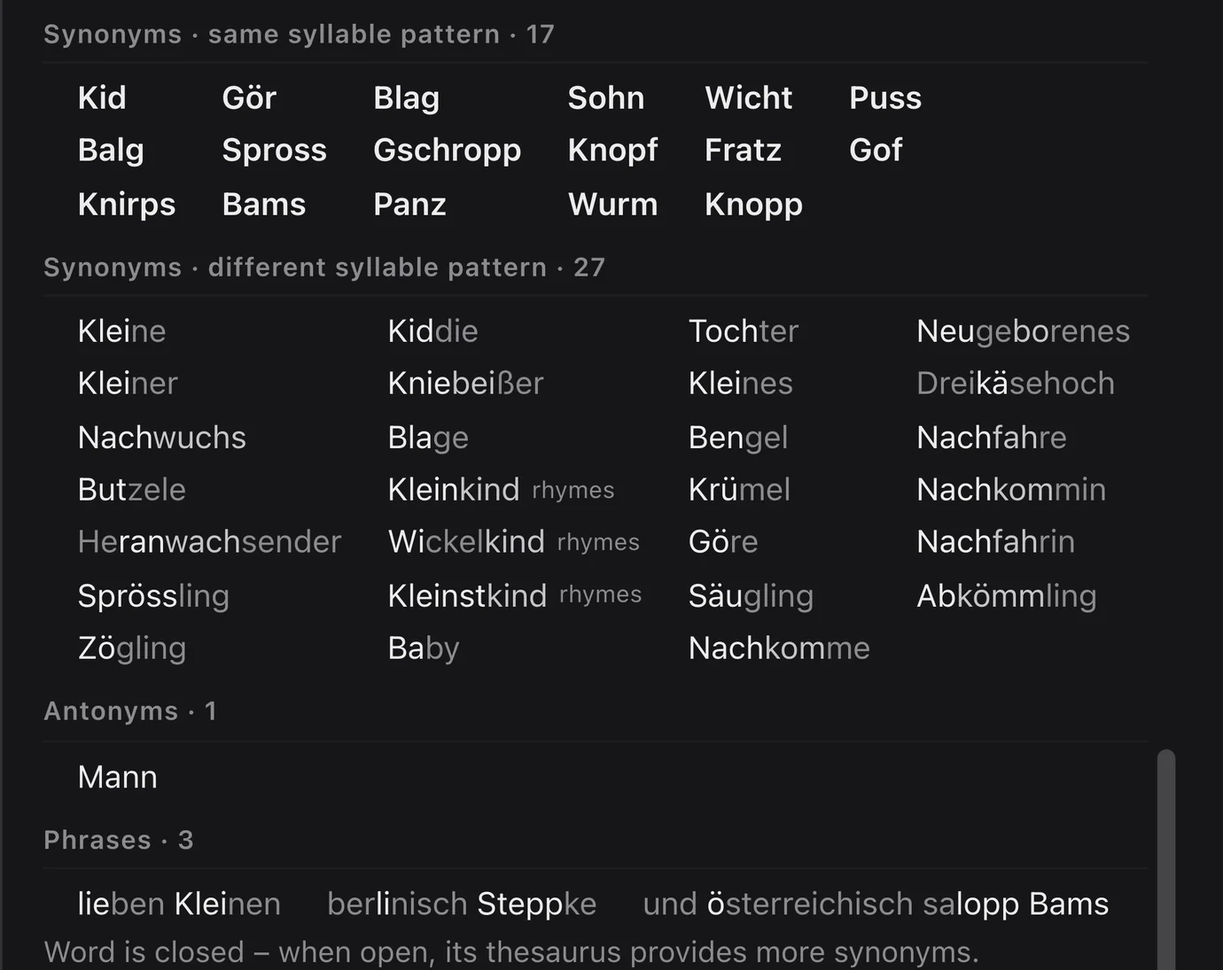
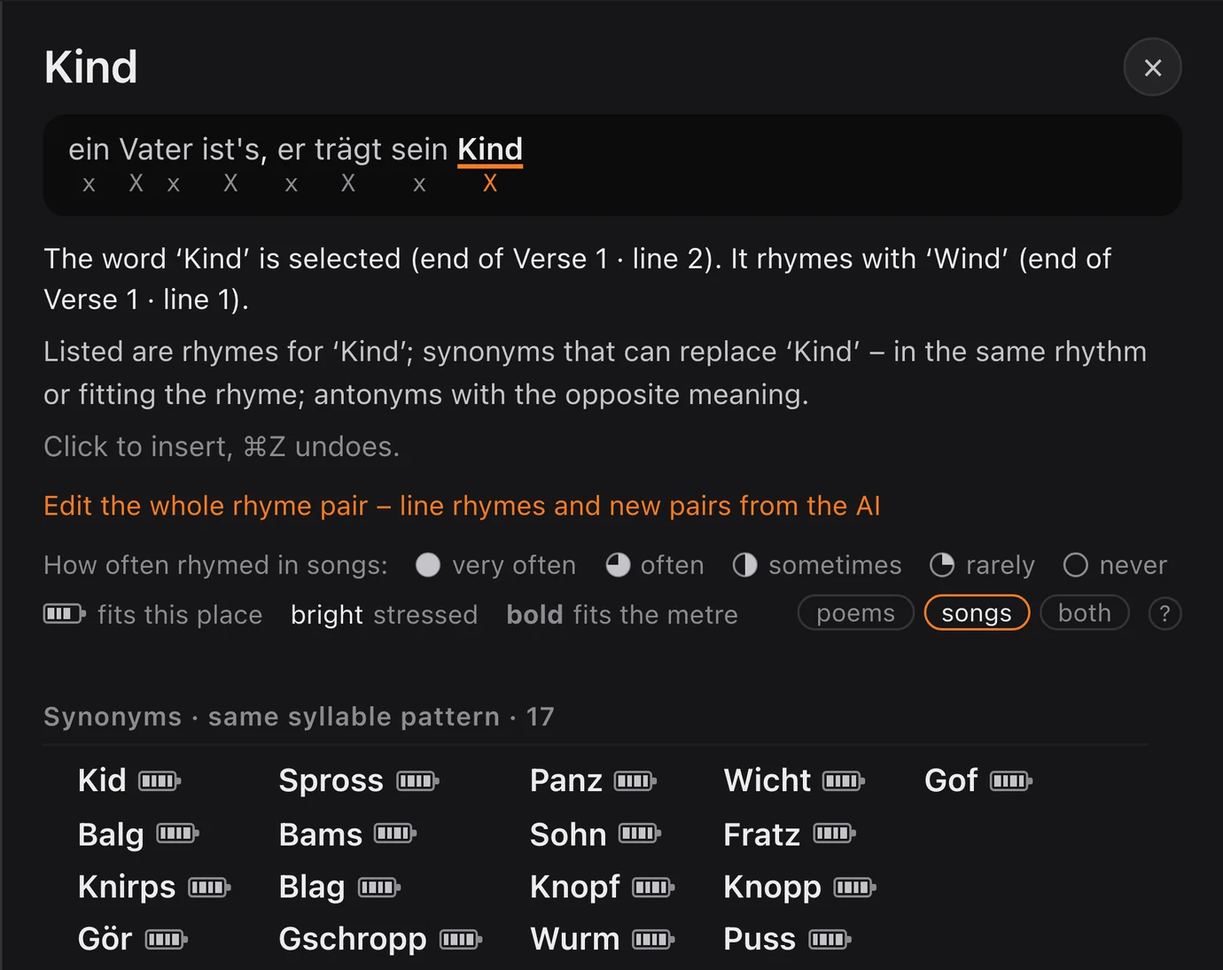
Feature-Seite: Versmaß, Reimstufen, Reim-BLAST mit Lautmatrix, Batterie, Aufbau, alte Wörterbücher
Neue Kacheln mit Beispielen und Schaubildern statt Screenshots im Aufbau; Säulen für Muret-Sanders 1900 und
Viëtor 1921; Viëtor nur noch an einer Stelle. Neue Kachelarten in der Seiten-Engine: Balken, Matrix, Soll-Bild, Text.

diff --git a/docs/inhalt.js b/docs/inhalt.js
@@ -24,44 +24,86 @@ const S = {
    h:{en:'Bright means stressed.',de:'Hell ist betont.'},
    p:{en:'Stressed syllables light up, unstressed ones step back. On the right, the beats of each line as bars, their number and the rhyme.',
       de:'Betonte Silben leuchten, unbetonte treten zurück. Rechts die Hebungen jeder Zeile als Balken, ihre Zahl und der Reim.'},
-   d:{en:['<b>German and English</b>, also mixed in one text; KlangFeder detects the language line by line.','<b>Pronunciation dictionaries</b> with over 800,000 word forms, plus Viëtor’s pronunciation dictionary of 1921, digitised by us and released freely.','<b>Syllables on the left</b>, beats and cadence (masculine or feminine ending) on the right; the section shows its metre, such as Knittelvers.'],
-      de:['<b>Deutsch und Englisch</b>, auch gemischt in einem Text; die Sprache erkennt die KlangFeder Zeile für Zeile.','<b>Aussprachewörterbücher</b> mit über 800 000 Wortformen, dazu Viëtors Aussprachewörterbuch von 1921, von uns digitalisiert und frei veröffentlicht.','<b>Silbenzahl links</b>, Hebungen und Kadenz (männlich oder weiblich) rechts; der Abschnitt zeigt sein Versmaß, etwa Knittelvers.']}},
+   d:{en:['<b>German and English</b>, also mixed in one text; KlangFeder detects the language line by line.','<b>Pronunciation dictionaries</b> with over 800,000 word forms.','<b>Syllables on the left</b>, beats and cadence (masculine or feminine ending) on the right.'],
+      de:['<b>Deutsch und Englisch</b>, auch gemischt in einem Text; die Sprache erkennt die KlangFeder Zeile für Zeile.','<b>Aussprachewörterbücher</b> mit über 800 000 Wortformen.','<b>Silbenzahl links</b>, Hebungen und Kadenz (männlich oder weiblich) rechts.']}},
+  {id:'versmass',w:12,klein:{en:'Metre',de:'Versmaß'},
+   h:{en:'Iamb, blank verse, sonnet – recognised.',de:'Jambus, Knittelvers, Sonett – erkannt.'},
+   p:{en:'From the beats of each line KlangFeder reads the foot, the line form and the stanza form, following classical prosody.',
+      de:'Aus den Hebungen jeder Zeile liest die KlangFeder Versfuß, Versform und Strophenform – nach der klassischen Verslehre.'},
+   d:{en:['<b>Poems strictly, songs freely:</b> in a song, a double offbeat or an upbeat is not a fault.','<b>The forms catalogue</b> in the help shows every form as a picture of beats and offbeats.'],
+      de:['<b>Gedichte streng, Lieder frei:</b> Im Lied gelten Doppelsenkung und Auftakt nicht als Fehler.','<b>Der Formenkatalog</b> in der Hilfe zeigt jede Form als Bild aus Hebungen und Senkungen.']}},
   ]},
  {augenbraue:{en:'Rhyme',de:'Reimen'},
   h:{en:'Same colour rhymes.',de:'Gleiche Farbe reimt.'},
-  p:{en:'KlangFeder hears rhymes, it does not read them: by sound, not by spelling – pure, impure, assonance. And it finds new ones.',
-     de:'Die KlangFeder hört Reime, sie liest sie nicht: nach dem Klang, nicht nach der Schreibung – rein, unrein, Assonanz. Und sie findet neue.'},
+  p:{en:'KlangFeder hears rhymes, it does not read them: by sound, not by spelling, in seven levels. And it finds new ones.',
+     de:'Die KlangFeder hört Reime, sie liest sie nicht: nach dem Klang, nicht nach der Schreibung, in sieben Stufen. Und sie findet neue.'},
   kacheln:[
   {id:'reimschema',w:6,klein:{en:'Rhyme scheme',de:'Reimschema'},
    h:{en:'Every section knows its scheme.',de:'Jeder Abschnitt kennt sein Schema.'},
    p:{en:'Letters show which lines rhyme. Next to each heading the scheme: found in the text, or set by you.',
       de:'Buchstaben zeigen, welche Zeilen reimen. Neben jeder Überschrift das Schema: im Text gefunden oder von dir vorgegeben.'},
-   d:{en:['<b>Fours, sixes and eights</b> to choose from: alternate rhyme ABAB, couplets AABB, tail rhyme AABCCB, ottava rima ABABABCC; any scheme can also be typed.','<b>“auto”</b> takes the scheme that best fits sections of this kind.','<b>Impure rhymes</b> by the rules of prosody count too (mir/Tür, Liebe/trübe).'],
-      de:['<b>Vierer, Sechser, Achter</b> zur Wahl: Kreuzreim ABAB, Paarreim AABB, Schweifreim AABCCB, Stanze ABABABCC; jedes Schema lässt sich auch selbst tippen.','<b>„auto“</b> nimmt das Schema, das zu den Abschnitten dieser Art am besten passt.','<b>Unreine Reime</b> nach der Verslehre zählen mit (mir/Tür, Liebe/trübe).']}},
+   d:{en:['<b>Fours, sixes and eights</b> to choose from: alternate rhyme ABAB, couplets AABB, tail rhyme AABCCB, ottava rima ABABABCC; any scheme can also be typed.','<b>“auto”</b> takes the scheme that best fits sections of this kind.'],
+      de:['<b>Vierer, Sechser, Achter</b> zur Wahl: Kreuzreim ABAB, Paarreim AABB, Schweifreim AABCCB, Stanze ABABABCC; jedes Schema lässt sich auch selbst tippen.','<b>„auto“</b> nimmt das Schema, das zu den Abschnitten dieser Art am besten passt.']}},
   {id:'reimsuche',w:6,klein:{en:'Rhyme search',de:'Reimsuche'},
    h:{en:'Right-click, and the rhymes are there.',de:'Rechtsklick, und die Reime stehen da.'},
-   p:{en:'Rhymes on a word, pure, impure and as assonance, with how often they rhyme in poems and songs. Bold fits the metre.',
-      de:'Reime auf ein Wort, rein, unrein und als Assonanz, mit ihrer Häufigkeit in Gedichten und Liedern. Fett passt ins Maß.'},
+   p:{en:'Rhymes on a word, level by level, with how often they rhyme in poems and songs. Bold fits the metre.',
+      de:'Reime auf ein Wort, Stufe für Stufe, mit ihrer Häufigkeit in Gedichten und Liedern. Fett passt ins Maß.'},
    d:{en:['<b>In the same workbench:</b> replacements with the same stress pattern, opposites and phrases.','<b>How often</b> from about 61,000 German poems and – if you fetch it – from German song lyrics.','<b>One click</b> puts the word in; ⌘Z takes it back.'],
       de:['<b>In derselben Werkbank:</b> Ersatzwörter im gleichen Rhythmus, Gegenteile und Wendungen.','<b>Wie oft</b> aus rund 61 000 deutschen Gedichten und – wenn du es holst – aus deutschen Liedtexten.','<b>Ein Klick</b> setzt das Wort ein; ⌘Z nimmt es zurück.']}},
+  {id:'reimstufen',w:12,klein:{en:'Rhyme levels',de:'Reimstufen'},
+   h:{en:'Seven levels, each in its colour.',de:'Sieben Stufen, jede in ihrer Farbe.'},
+   p:{en:'How well two words rhyme, KlangFeder hears from their pronunciation. The colour stands as a stripe next to every list of rhymes. Examples in German:',
+      de:'Wie gut zwei Wörter reimen, hört die KlangFeder an ihrer Aussprache. Die Farbe steht als Streifen an jeder Reimliste.'},
+   d:{en:['<b>Impure rhymes</b> by the rules of prosody (mir/Tür, Zeit/freut) count in the rhyme scheme.','<b>The list of rhymes</b> runs from identical to echo; the scroll wheel decides how far.'],
+      de:['<b>Unreine Reime</b> nach der Verslehre (mir/Tür, Zeit/freut) zählen im Reimschema mit.','<b>Die Reimliste</b> läuft von rührend bis Anklang; das Mausrad entscheidet, wie weit.']}},
+  {id:'blast',w:7,klein:{en:'How it finds rhymes',de:'Wie sie Reime findet'},
+   h:{en:'Rhymes aligned like genes.',de:'Reime aligniert wie Gene.'},
+   p:{en:'Every word becomes a chain of sounds and is aligned from its end – with the method biology uses to compare protein and DNA sequences. How alike two sounds are, KlangFeder learned from rhymes, among them those of about 61,000 poems.',
+      de:'Jedes Wort wird zur Kette von Lauten und vom Ende her ausgerichtet – mit dem Verfahren, mit dem die Biologie Eiweiß- und Erbgutsequenzen vergleicht. Wie ähnlich sich zwei Laute sind, hat die KlangFeder aus Reimen gelernt, unter anderem aus denen von rund 61 000 Gedichten.'},
+   d:{en:['<b>Anchored at the end, open to the left</b> (as in BLAST): the alignment grows as long as the score carries it.','<b>A table of sound pairs</b> (a substitution matrix, as BLOSUM is for proteins): how often two sounds stand together at the rhyme, more often than chance gives points.','<b>Syllables have weight:</b> a missing unstressed syllable costs little, a stressed one a lot – Tag / sagen rhymes, Heim / Heimat does not.'],
+      de:['<b>Am Ende verankert, nach links offen</b> (wie bei BLAST): Die Ausrichtung wächst, solange die Punkte tragen.','<b>Eine Tafel der Lautpaare</b> (Austauschmatrix, wie BLOSUM bei Eiweißen): Wie oft zwei Laute an Reimstelle zusammenstehen – häufiger als der Zufall gibt Punkte.','<b>Silben haben Gewicht:</b> Eine fehlende unbetonte Silbe kostet wenig, eine betonte viel – Tag / sagen reimt, Heim / Heimat nicht.']}},
+  {id:'lautmatrix',w:5,klein:{en:'Sound matrix',de:'Lautmatrix'},
+   h:{en:'Which vowels rhyme.',de:'Welche Vokale sich reimen.'},
+   p:{en:'Learned from the rhymes of about 61,000 poems: how much more often two vowels stand together at the rhyme than chance would have it. Warm: more often, blue: less often, empty: never seen together.',
+      de:'Aus den Reimen von rund 61 000 Gedichten gelernt: wie viel öfter zwei Vokale an Reimstelle zusammenstehen, als der Zufall erwarten lässt. Warm: öfter, blau: seltener, leer: nie zusammen gesehen.'},
+   d:{en:['<b>For example:</b> i and ɪ (Miete / Mitte) almost never rhyme, i and y (Liebe / trübe) often.','<b>The measure</b> is pointwise mutual information (PMI) per pair of sounds, scaled so that every sound gives 1 with itself.','<b>Consonants</b> have the same kind of table; it decides how much a different final consonant costs.'],
+      de:['<b>Ein Beispiel:</b> i und ɪ (Miete / Mitte) reimen fast nie, i und y (Liebe / trübe) oft.','<b>Gemessen</b> als punktweise Transinformation (PMI) je Lautpaar, so bemessen, dass jeder Laut mit sich selbst 1 ergibt.','<b>Für Konsonanten</b> gibt es dieselbe Art Tafel; sie bestimmt, was ein anderer Endkonsonant kostet.']}},
   ]},
  {augenbraue:{en:'Find',de:'Finden'},
   h:{en:'The right word, in the right metre.',de:'Das passende Wort, im passenden Maß.'},
-  p:{en:'Synonyms, opposites and phrases – sorted by whether they fit the line. And gaps that KlangFeder fills.',
-     de:'Synonyme, Gegenteile und Wendungen – sortiert danach, ob sie in den Vers passen. Und Lücken, die die KlangFeder füllt.'},
+  p:{en:'Synonyms, opposites and phrases – each with a sign of how well it fits your line. And gaps that KlangFeder fills.',
+     de:'Synonyme, Gegenteile und Wendungen – jedes mit einem Zeichen, wie gut es in deinen Vers passt. Und Lücken, die die KlangFeder füllt.'},
   kacheln:[
   {id:'ersatz',w:7,klein:{en:'Replacements',de:'Ersatzwörter'},
    h:{en:'Same meaning, same stress.',de:'Gleich gemeint, gleich betont.'},
-   p:{en:'Synonyms with the same syllable pattern come first; the others show where their stress lies. Plus opposites and phrases.',
-      de:'Synonyme mit demselben Silbenmuster stehen vorn; die übrigen zeigen, wo ihre Betonung liegt. Dazu Gegenteile und Wendungen.'},
-   d:{en:['<b>From OpenThesaurus and Wiktionary</b>; on a Mac also from the Dictionary app and, if it is running, Microsoft Word.','<b>“rhymes”</b> marks synonyms that also rhyme with the partner line.','<b>English</b> from the Open English WordNet.'],
-      de:['<b>Aus OpenThesaurus und dem Wiktionary</b>, auf dem Mac zusätzlich aus dem Programm Lexikon und, wenn es läuft, aus Microsoft Word.','<b>„reimt“</b> markiert Synonyme, die zugleich auf die Partnerzeile reimen.','<b>Englisch</b> aus dem Open English WordNet.']}},
+   p:{en:'Synonyms with the same syllable pattern come first. A small battery shows for every suggestion how well it fits exactly this place in the line.',
+      de:'Synonyme mit demselben Silbenmuster stehen vorn. Eine kleine Batterie zeigt bei jedem Vorschlag, wie gut er an genau diese Stelle der Zeile passt.'},
+   d:{en:['<b>At the top</b> the line with its beats, the selection marked. Full battery: exactly the beats of this place; three quarters: a syllable more or less; half: it stumbles; a quarter: a main stress on an offbeat; empty: the line gets a different number of beats.','<b>From OpenThesaurus and Wiktionary</b>; on a Mac also from the Dictionary app and, if it is running, Microsoft Word.','<b>“rhymes”</b> marks synonyms that also rhyme with the partner line.','<b>English</b> from the Open English WordNet.'],
+      de:['<b>Oben</b> die Zeile mit ihren Hebungen, die Auswahl markiert. Volle Batterie: genau die Hebungen dieser Stelle; drei Viertel: eine Silbe mehr oder weniger; halb: es holpert; ein Viertel: ein Hauptton in der Senkung; leer: die Zeile bekommt eine andere Zahl Hebungen.','<b>Aus OpenThesaurus und dem Wiktionary</b>, auf dem Mac zusätzlich aus dem Programm Lexikon und, wenn es läuft, aus Microsoft Word.','<b>„reimt“</b> markiert Synonyme, die zugleich auf die Partnerzeile reimen.','<b>Englisch</b> aus dem Open English WordNet.']}},
   {id:'luecke',w:5,klein:{en:'Gaps',de:'Lücken'},
    h:{en:'Three strokes, and the words fit.',de:'Drei Striche, und die Wörter passen.'},
    p:{en:'Write ___ or a pattern like x-X-x-X where the word is missing. A right-click shows words in exactly that metre that rhyme as well.',
       de:'Schreib ___ oder ein Muster wie x-X-x-X, wo dir das Wort fehlt. Ein Rechtsklick zeigt Wörter in genau diesem Maß, die auch noch reimen.'},
    d:{en:['<b>The metre</b> comes from the partner line, the rhyme from the rhyme scheme.','<b>Placeholders</b> such as x-X-x-X: small unstressed, capital stressed; a rhyme sound may end it, as in the German x-x-ICHT.','<b>One click</b> puts the suggestion in place of the gap.'],
       de:['<b>Das Maß</b> kommt aus der Partnerzeile, der Reim aus dem Reimschema.','<b>Platzhalter</b> wie x-X-x-X: klein unbetont, groß betont; am Ende darf ein Reimklang stehen (x-x-ICHT).','<b>Ein Klick</b> setzt den Vorschlag an die Stelle der Lücke.']}},
+  ]},
+ {augenbraue:{en:'Structure',de:'Aufbau'},
+  h:{en:'First the form, then the words.',de:'Erst die Form, dann die Worte.'},
+  p:{en:'A frame for a song or a poem, written into the sheet as placeholders. You write over it, and the plan stays visible.',
+     de:'Ein Gerüst für ein Lied oder ein Gedicht, als Platzhalter ins Blatt geschrieben. Du schreibst darüber, und der Plan bleibt sichtbar.'},
+  kacheln:[
+  {id:'geruest',w:6,klein:{en:'Frames',de:'Gerüste'},
+   h:{en:'Song or poem.',de:'Lied oder Gedicht.'},
+   p:{en:'One switch chooses between song forms and classical poem forms. Every form comes into the sheet with its lines, beats and rhyme scheme.',
+      de:'Ein Umschalter wählt zwischen Liedformen und klassischen Gedichtformen. Jede Form kommt mit Zeilen, Hebungen und Reimschema ins Blatt.'},
+   d:{en:['<b>Songs:</b> pop with pre-chorus, verse–chorus–bridge, AABA, ballad, blues, rap and more – or the structure of your models.','<b>Poems:</b> sonnet, ottava rima, terza rima, folk-song stanza, ghazal, ode stanzas, limerick, haiku, elfchen.','<b>In the structure panel</b> every section can be changed: lines, beats, rhyme, cadence.'],
+      de:['<b>Lieder:</b> Pop mit Pre-Chorus, Strophe–Refrain–Bridge, AABA, Ballade, Blues, Rap und mehr – oder der Aufbau deiner Vorlagen.','<b>Gedichte:</b> Sonett, Stanze, Terzinen, Volksliedstrophe, Ghasel, Odenstrophen, Limerick, Haiku, Elfchen.','<b>Im Aufbau</b> lässt sich jeder Abschnitt ändern: Zeilen, Hebungen, Reim, Kadenz.']}},
+  {id:'soll',w:6,klein:{en:'Plan and result',de:'Soll und Ist'},
+   h:{en:'The plan stays.',de:'Der Plan bleibt stehen.'},
+   p:{en:'Next to every line an outline shows what the frame asks for. What is missing stays hollow; what is too much lights up.',
+      de:'Neben jeder Zeile zeigt ein Umriss, was das Gerüst verlangt. Was fehlt, bleibt hohl; was zu viel ist, leuchtet.'},
+   d:{en:['<b>Poems</b> syllable by syllable, <b>songs</b> by their beats – a double offbeat and an upbeat are allowed there.','<b>The rhyme letter</b> stays pale until the line really rhymes.'],
+      de:['<b>Gedichte</b> Silbe für Silbe, <b>Lieder</b> nach Hebungen – Doppelsenkung und Auftakt sind dort erlaubt.','<b>Der Reimbuchstabe</b> steht blass, bis die Zeile wirklich reimt.']}},
   ]},
  {augenbraue:{en:'For Suno',de:'Für Suno'},
   h:{en:'Ready to paste.',de:'Fertig zum Einfügen.'},
@@ -99,10 +141,28 @@ const S = {
    d:{en:['<b>Models:</b> songs from KlangTresor, ticked as models, show their style – metre, rhyme, structure – and serve the AI as examples.','<b>The length</b> is rough (±12 % on average); density says more.','<b>KlangTresor</b> is a separate free program for your Suno archive: <a href="https://github.com/CasparDavi/klangtresor">github.com/CasparDavi/klangtresor</a>.'],
       de:['<b>Vorlagen:</b> Lieder aus dem KlangTresor, als Vorlagen angekreuzt, zeigen ihren Stil – Versmaß, Reim, Aufbau – und dienen der KI als Vorbild.','<b>Die Länge</b> ist grob (im Mittel ±12 %); die Dichte sagt mehr.','<b>Der KlangTresor</b> ist ein eigenes, freies Programm für dein Suno-Archiv: <a href="https://github.com/CasparDavi/klangtresor">github.com/CasparDavi/klangtresor</a>.']}},
   ]},
+ {augenbraue:{en:'Sources',de:'Quellen'},
+  h:{en:'Old dictionaries, read anew.',de:'Alte Wörterbücher, neu gelesen.'},
+  p:{en:'Free modern dictionaries do not know many words – and where they do, the secondary stress is often missing. So we went through two public-domain pronunciation dictionaries page by page.',
+     de:'Freie moderne Wörterbücher kennen viele Wörter nicht – und wo sie sie kennen, fehlt oft der Nebenton. Zwei gemeinfreie Aussprachewörterbücher haben wir deshalb Seite für Seite ausgewertet.'},
+  kacheln:[
+  {id:'buecher',w:7,klein:{en:'Muret-Sanders 1900 · Viëtor 1921',de:'Muret-Sanders 1900 · Viëtor 1921'},
+   h:{en:'Stress as it was printed.',de:'Betonung, wie sie gedruckt steht.'},
+   p:{en:'Muret-Sanders marks every syllable with an arc or a bar, with main and secondary stress; Viëtor spells every word in phonetic script. From that comes the stress KlangFeder works with.',
+      de:'Muret-Sanders setzt über jede Silbe Bogen oder Strich, mit Haupt- und Nebenton; Viëtor schreibt jedes Wort in Lautschrift. Daraus wird die Betonung, mit der die KlangFeder rechnet.'},
+   d:{en:['<b>What for:</b> rare and old words, compounds and names get their stress from a dictionary instead of a rule – <b>Un</b>wert, <b>Ur</b>kraft, pianis<b>si</b>mo.','<b>Viëtor</b> is released freely: <a href="https://github.com/CasparDavi/vietor-1921">github.com/CasparDavi/vietor-1921</a>.','<b>Both works</b> are in the public domain; the scans come from the Internet Archive.'],
+      de:['<b>Wozu:</b> Seltene und alte Wörter, Zusammensetzungen und Namen bekommen ihre Betonung aus einem Wörterbuch statt aus einer Regel – <b>Un</b>wert, <b>Ur</b>kraft, pianis<b>si</b>mo.','<b>Viëtor</b> ist frei veröffentlicht: <a href="https://github.com/CasparDavi/vietor-1921">github.com/CasparDavi/vietor-1921</a>.','<b>Beide Werke</b> sind gemeinfrei; die Scans stammen aus dem Internet Archive.']}},
+  {id:'umfang',w:5,klein:{en:'Size',de:'Umfang'},
+   h:{en:'Almost 100,000 headwords.',de:'Fast 100 000 Stichwörter.'},
+   p:{en:'Read, and of those new to KlangFeder: words the free modern dictionaries do not know.',
+      de:'Gelesen, und davon neu für die KlangFeder: Wörter, die die freien modernen Wörterbücher nicht kennen.'},
+   d:{en:['<b>Muret-Sanders</b>, Encyclopaedic Dictionary, German–English part, Langenscheidt 1900: two volumes, about 2,500 pages.','<b>Viëtor</b>, Deutsches Aussprachewörterbuch, 3rd edition 1921: about 500 pages.'],
+      de:['<b>Muret-Sanders</b>, Enzyklopädisches Wörterbuch, Teil Deutsch–Englisch, Langenscheidt 1900: zwei Bände, rund 2 500 Seiten.','<b>Viëtor</b>, Deutsches Aussprachewörterbuch, 3. Auflage 1921: rund 500 Seiten.']}},
+  ]},
  {augenbraue:{en:'Yours',de:'Bei dir'},
   h:{en:'Your verse stays with you.',de:'Deine Verse bleiben bei dir.'},
-  p:{en:'KlangFeder runs on your computer, without an account and without a cloud. Every version is kept. The dictionaries come from free sources – among them Viëtor’s pronunciation dictionary of 1921, which we digitised and <a href="https://github.com/CasparDavi/vietor-1921">released freely</a>.',
-     de:'Die KlangFeder läuft auf deinem Rechner, ohne Konto und ohne Cloud. Jeder Stand wird aufgehoben. Die Wörterbücher stammen aus freien Quellen – darunter Viëtors Aussprachewörterbuch von 1921, das wir digitalisiert und <a href="https://github.com/CasparDavi/vietor-1921">frei veröffentlicht</a> haben.'},
+  p:{en:'KlangFeder runs on your computer, without an account and without a cloud. Every version is kept. The dictionaries come from free sources.',
+     de:'Die KlangFeder läuft auf deinem Rechner, ohne Konto und ohne Cloud. Jeder Stand wird aufgehoben. Die Wörterbücher stammen aus freien Quellen.'},
   kacheln:[
   {id:'vergleich',w:12,klein:{en:'Versions',de:'Fassungen'},
    h:{en:'Every version stays.',de:'Jeder Stand bleibt.'},
@@ -138,7 +198,7 @@ S.laden = {
       de:'<b>Systemanforderungen.</b> Rund 1,5 GB frei für Programm und Wörterbücher. Ein aktueller Webbrowser. Andere Linux-Systeme: das <a href="https://github.com/CasparDavi/klangfeder/releases/latest/download/KlangFeder-x86_64.AppImage">AppImage</a>. Nicht signiert: Unter Windows hält Edge den Download zuerst zurück – Pfeil neben „Löschen“ → „Beibehalten“; beim ersten Start fragt Windows unter Umständen noch einmal nach, und macOS blockiert die App, bis du sie unter Datenschutz & Sicherheit → „Dennoch öffnen“ freigibst. Einmal installiert, erneuert sich die KlangFeder selbst: Eine Glocke neben „System“ zeigt eine neue Fassung.'}
 };
 
-const BV = '3';   // Bildstand: hochzählen, wenn Bilder ersetzt werden (sonst zeigt der Browser alte)
+const BV = '4';   // Bildstand: hochzählen, wenn Bilder ersetzt werden (sonst zeigt der Browser alte)
 const BILDER = {
   titel: { sprachen: { de: `img/titel-de.webp?v=${BV}`, en: `img/titel-en.webp?v=${BV}` } },
   schreiben: { sprachen: { de: `img/schreiben-de.webp?v=${BV}`, en: `img/schreiben-en.webp?v=${BV}` } },
@@ -151,10 +211,61 @@ const BILDER = {
   ki: { sprachen: { de: `img/ki-de.webp?v=${BV}`, en: `img/ki-en.webp?v=${BV}` } },
   laenge: { sprachen: { de: `img/laenge-de.webp?v=${BV}`, en: `img/laenge-en.webp?v=${BV}` } },
   vergleich: { sprachen: { de: `img/vergleich-de.webp?v=${BV}`, en: `img/vergleich-en.webp?v=${BV}` } },
+  /* Aufbau als Schaubilder statt Screenshots (Caspar_D, 12.11.2026: „keine screenshots, lieber zwei schaubilder“) */
+  geruest: { schaubild: { links: { de: 'Lied', en: 'Song' }, rechts: { de: 'Gedicht', en: 'Poem' }, knopf: { de: 'ein Klick', en: 'one click' },
+   von: { de: ['Pop', 'Strophe · Refrain', 'AABA', 'Ballade', 'Blues', 'Rap'], en: ['pop', 'verse · chorus', 'AABA', 'ballad', 'blues', 'rap'] },
+   bei: { de: ['Sonett', 'Stanze', 'Terzinen', 'Volksliedstrophe', 'Limerick', 'Haiku'], en: ['sonnet', 'ottava rima', 'terza rima', 'folk-song stanza', 'limerick', 'haiku'] } } },
+  /* Soll und Ist: Balken wie im Programm. m je Silbe: w/s gefüllt (Senkung/Hebung), W/S Umriss (fehlt noch), ! zu viel.
+     Deutsch: Eichendorff, „In einem kühlen Grunde“ (1813), Volksliedstrophe; Englisch: Wordsworth (1807), vierhebige Jamben.
+     Die dritte Zeile ist absichtlich um eine Silbe verlängert, die vierte erst angefangen. */
+  soll: { sollbild: {
+   de: [ { t: 'x-X-x-X-x-X-x', m: 'wswswsw', r: 'A', n: 'Gerüst', platz: true },
+         { t: 'In einem kühlen Grunde', m: 'wswswsw', r: 'A', n: 'passt' },
+         { t: 'Da geht ein Mühlenrad', m: 'wswsws', r: 'B', n: 'passt' },
+         { t: 'Mein Liebste ist <b>nun</b> verschwunden', m: 'wsws!wsw', r: 'A', n: 'Silbe zu viel' },
+         { t: 'Die dort gewoh▏', m: 'wswsWWS', r: 'B', blass: true, n: 'Rest als Umriss' } ],
+   en: [ { t: 'x-X-x-X-x-X-x-X', m: 'wswswsws', r: 'A', n: 'frame', platz: true },
+         { t: 'I wandered lonely as a cloud', m: 'wswswsws', r: 'A', n: 'fits' },
+         { t: 'That floats on high o’er vales and hills', m: 'wswswsws', r: 'B', n: 'fits' },
+         { t: 'When all at once I saw a <b>big</b> crowd', m: 'wswswsw!s', r: 'A', n: 'one too many' },
+         { t: 'A host of golden daff▏', m: 'wswswsWS', r: 'B', blass: true, n: 'the rest as an outline' } ] } },
+  buecher: `img/buecher.webp?v=${BV}`,
+  /* Versfüße, Versformen, Strophenformen – Beispielwörter mit der betonten Silbe fett */
+  versmass: { liste: [
+   { k: { de: 'Versfüße', en: 'Feet' }, w: { de: ['Jambus: Ver·<b>stand</b>', 'Trochäus: <b>Va</b>·ter', 'Daktylus: <b>Kö</b>·ni·gin', 'Anapäst: Pa·ra·<b>dies</b>'], en: ['iamb: a·<b>bove</b>', 'trochee: <b>gar</b>·den', 'dactyl: <b>beau</b>·ti·ful', 'anapaest: in·ter·<b>vene</b>'] } },
+   { k: { de: 'Versformen', en: 'Line forms' }, w: { de: ['Volksliedvers', 'Knittelvers', 'Blankvers', 'Alexandriner', 'Hexameter', 'freie Rhythmen'], en: ['folk song line', 'knittelvers', 'blank verse', 'alexandrine', 'hexameter', 'free rhythms'] } },
+   { k: { de: 'Strophenformen', en: 'Stanza forms' }, w: { de: ['Sonett', 'Stanze', 'Terzine', 'Volksliedstrophe', 'Ghasel', 'Limerick', 'und 15 weitere'], en: ['sonnet', 'ottava rima', 'terza rima', 'folk-song stanza', 'ghazal', 'limerick', 'and 15 more'] } } ] },
+  /* Reimstufen in den Farben der KlangFeder (Streifen an der Reimliste); Beispiele vom Kern geprüft (Reimsuche, 12.11.2026) */
+  reimstufen: { liste: [
+   { k: { de: 'rührend', en: 'identical' }, f: '#f2f2f2', w: { de: ['Liebe / bliebe', 'auch der Anlaut gleich'], en: ['Liebe / bliebe', 'even the onset is the same'] } },
+   { k: { de: 'rein', en: 'perfect' }, f: '#4a8fff', w: { de: ['Herz / Schmerz', 'ab dem betonten Vokal gleich'], en: ['Herz / Schmerz', 'the same from the stressed vowel on'] } },
+   { k: { de: 'fast rein', en: 'near-perfect' }, f: '#45c26a', w: { de: ['Rad / Stadt', 'nur die Vokallänge anders'], en: ['Rad / Stadt', 'only the vowel length differs'] } },
+   { k: { de: 'unrein', en: 'impure' }, f: '#e6d23e', w: { de: ['Liebe / trübe', 'Vokal leicht anders'], en: ['Liebe / trübe', 'vowel slightly different'] } },
+   { k: { de: 'Assonanz', en: 'assonance' }, f: '#f08a24', w: { de: ['Liebe / Wiege', 'nur die Vokale gleich'], en: ['Liebe / Wiege', 'only the vowels match'] } },
+   { k: { de: 'Konsonanz', en: 'consonance' }, f: '#c0646c', w: { de: ['Liebe / lebe', 'nur die Konsonanten gleich'], en: ['Liebe / lebe', 'only the consonants match'] } },
+   { k: { de: 'Anklang', en: 'echo' }, f: '#76767b', w: { de: ['Wind / Winter', 'klingt ähnlich, andere Silbenzahl'], en: ['Wind / Winter', 'sounds alike, other syllable count'] } } ] },
+  /* Ausrichtung zweier Lautketten wie im Programm (kern/laute.mjs ausrichten, Gedichte-Matrix; Punkte am 12.11.2026 gerechnet):
+     | gleich, : ähnlich, · verschieden; „von“ = Punkte des Worts gegen sich selbst */
+  blast: { pre: { titel: 'Reim-BLAST', zeilen: {
+   de: ['Liebe    l   iː  b  ə', '             :   |  |', 'trübe   tʁ   yː  b  ə', '<b>Punkte 10,4 von 11,4  → unrein</b>', '',
+        'Liebe    l   iː  b  ə', '             |   ·  |', 'Wiege    v   iː  ɡ  ə', '<b>Punkte  7,7 von 11,4  → Assonanz</b>', '',
+        'Herz     h   ɛ   ɐ̯ t͡s', '             |   | |', 'Schmerz ʃm   ɛ   ɐ̯ t͡s', '<b>Punkte  6,0 von 6,0   → rein</b>'],
+   en: ['Liebe    l   iː  b  ə', '             :   |  |', 'trübe   tʁ   yː  b  ə', '<b>score 10.4 of 11.4  → impure</b>', '',
+        'Liebe    l   iː  b  ə', '             |   ·  |', 'Wiege    v   iː  ɡ  ə', '<b>score  7.7 of 11.4  → assonance</b>', '',
+        'Herz     h   ɛ   ɐ̯ t͡s', '             |   | |', 'Schmerz ʃm   ɛ   ɐ̯ t͡s', '<b>score  6.0 of 6.0   → perfect</b>'] } } },
+  /* Vokalmatrix aus der gelernten Reimmatrix (KlangFeder daten/de/laut/pmi.json, TextGrid-Gedichte, Stand 10.11.2026):
+     normierte PMI je Paar, 1 = gleicher Laut; fehlende Paare wurden nie zusammen gesehen (bleiben leer) */
+  lautmatrix: { matrix: { laute: ["i", "ɪ", "e", "ɛ", "y", "ʏ", "ø", "œ", "u", "ʊ", "o", "ɔ", "a", "ə", "ɐ", "aɪ̯", "ɔʏ̯", "aʊ̯"], werte: {"a|a": 1, "ə|ə": 1, "aɪ̯|aɪ̯": 1, "ɛ|ɛ": 1, "œ|ɛ": 0.582, "ɐ|ɐ": 1, "e|ɛ": -0.095, "ɪ|ʏ": 0.536, "e|e": 1, "i|i": 1, "o|ɔ": 0.274, "ɪ|ɪ": 1, "i|y": 0.671, "œ|ɪ": -0.1, "ɔ|ɔ": 1, "u|u": 1, "o|o": 1, "ɔʏ̯|ɔʏ̯": 1, "ʏ|ʏ": 1, "ʊ|ʊ": 1, "e|ø": 0.552, "y|ʏ": 0.203, "aʊ̯|aʊ̯": 1, "y|y": 1, "œ|ʏ": -0.47, "aɪ̯|ɔʏ̯": 0.515, "u|ʊ": -0.466, "i|ʏ": -0.354, "ø|ø": 1, "œ|œ": 1, "o|ø": -0.493, "ø|œ": 0.237, "ø|ɛ": -0.127, "œ|ɔ": -0.445, "y|ø": -0.293, "i|ɪ": -1.45, "œ|ʊ": -0.501, "ɛ|ɪ": -1.78, "ɪ|ʊ": -1.821},
+   leg: { links: { de: 'seltener als Zufall', en: 'less often than chance' }, rechts: { de: 'öfter', en: 'more often' }, leer: { de: 'nie gesehen', en: 'never seen' } } } },
+  /* Umfang der ausgewerteten gemeinfreien Werke: gelesene Stichwörter, davon neu (nicht in ipa-dict bzw. ipa-dict + Viëtor) */
+  umfang: { balken: { zeilen: [
+   { n: 'Muret-Sanders 1900', ges: 62047, neu: 26322 },
+   { n: 'Viëtor 1921', ges: 36779, neu: 11223 } ],
+   leg: { ges: { de: 'gelesen', en: 'read' }, neu: { de: 'davon neu', en: 'of those new' } } } },
 };
 const POSTER = {}, TEMPO = {};
 const NUR_TEXT = new Set([]);   // Kacheln, die ohne Bild stehen
 const GH = 'github.com/CasparDavi/klangfeder';
 const ghLink = (s) => s.replace(GH, `<a class="gh" href="https://${GH}">${GH}</a>`);
 const KONSOLE = {}, konsole = () => [];
-const FORMAT = { schreiben: '1560/700', reimschema: '1310/950', reimsuche: '1310/950', ersatz: '1380/1095', luecke: '1000/1111', zaehlen: '676/620', regie: '1090/1000', ki: '676/680', laenge: '1495/1073', vergleich: '1560/1045' };   /* ki w5 / laenge w7: 5·680/676 = 7·1073/1495 */   /* ersatz w7 / luecke w5: 7·1095/1380 = 5·1111/1000, Unterkanten fluchten */   /* Kacheln, deren Bild ein eigenes Seitenverhaeltnis hat */
+const FORMAT = { schreiben: '1560/700', reimschema: '1310/950', reimsuche: '1310/950', ersatz: '1380/1095', luecke: '1000/1111', zaehlen: '676/620', regie: '1090/1000', ki: '676/680', laenge: '1495/1073', vergleich: '1560/1045', buecher: '1320/880' };   /* ki w5 / laenge w7: 5·680/676 = 7·1073/1495 */   /* ersatz w7 / luecke w5: 7·1095/1380 = 5·1111/1000, Unterkanten fluchten */   /* Kacheln, deren Bild ein eigenes Seitenverhaeltnis hat */

diff --git a/docs/index.html b/docs/index.html
@@ -63,7 +63,7 @@ main{max-width:1180px;margin:0 auto;padding:0 22px 80px}
 .k:not(.quer) > .text{align-self:start}
 .k:not(.quer) > .bild{align-self:end;margin-top:0}
 .k:not(.quer) > .bild.konsole{align-self:stretch}
-.k:not(.quer) > .filterliste,.k:not(.quer) > .schaubild{align-self:end}
+.k:not(.quer) > .filterliste,.k:not(.quer) > .schaubild,.k:not(.quer) > .balken,.k:not(.quer) > .matrix{align-self:end}
 /* Grafik oben, Text darunter (Caspar_D, 27.10.2026: „immer nur den Grafikteil nehmen und einen Text drunterzusetzen“) */
 /* Oben ein schwarzes Feld mit duennem Rahmen im Grau des Schriftfelds; die Grafik reicht von Rand zu Rand und steht unten
    auf der Teilungslinie, was darueber frei bleibt, bleibt schwarz (Caspar_D, 27.10.2026). Alle Felder einer Reihe gleich hoch. */
@@ -128,6 +128,39 @@ main{max-width:1180px;margin:0 auto;padding:0 22px 80px}
 .filterliste{padding:4px 32px 30px;margin-top:auto}
 .filterliste .fk{margin:16px 0 4px;font-size:12px;font-weight:600;letter-spacing:.08em;text-transform:uppercase;color:var(--akzent)}
 .filterliste .fw{margin:0;font-size:16px;line-height:1.55;color:var(--text)}
+.filterliste .fw b{font-weight:700;color:var(--akzent)}
+.k > .filterliste,.k > .balken{padding-bottom:64px}
+.matrix{padding:0 28px 64px;margin-top:auto}
+.sollbild{display:grid;grid-template-columns:auto auto 14px 1fr;align-items:end;column-gap:14px;row-gap:12px;padding:6px 32px 64px;margin-top:auto}
+.sollbild .st{margin:0;font-size:17px;color:var(--text);white-space:nowrap}
+.sollbild .st.platz{font-family:ui-monospace,"SF Mono",Menlo,monospace;font-size:15px;color:var(--leise)}
+.sollbild .st b{color:var(--akzent);font-weight:600}
+.sollbild .sb{display:flex;align-items:flex-end;gap:2px;height:14px;padding-bottom:3px}
+.sollbild .sb i{width:6px;border-radius:1px 1px 0 0;background:#c9c9cd}
+.sollbild .sb i[style*="4px"]{background:#55555b}
+.sollbild .sb i.um{background:none!important;box-shadow:inset 0 0 0 1.2px #8b8b90}
+.sollbild .sb i.zv{background:var(--akzent)!important}
+.sollbild .sr{font-size:16px;padding-bottom:1px}
+.sollbild .sn{font-size:14px;color:var(--leise);padding-bottom:1px}
+.k:not(.quer) > .sollbild{align-self:end}
+.matrix svg{display:block;width:100%;height:auto}
+.matrix svg text{font:13px/1 ui-monospace,"SF Mono",Menlo,monospace;fill:var(--leise)}
+.matrix .ml{display:flex;flex-wrap:wrap;align-items:center;gap:3px;margin:10px 0 0;font-size:13px;color:var(--leise)}
+.matrix .ml span{margin:0 6px}
+.matrix .ml i{width:16px;height:12px;border-radius:2px;display:inline-block}
+.matrix .ml .leer i{background:none;box-shadow:inset 0 0 0 1px #3a3a3e;margin-right:6px;vertical-align:-1px}   /* Platz für den Plus-Knopf unten rechts */
+.k.w12 > .filterliste{display:grid;grid-template-columns:repeat(auto-fit,minmax(220px,1fr));column-gap:28px}
+.balken{padding:4px 32px 30px;margin-top:auto}
+.balken .bz{margin:0 0 18px}
+.balken .bn{margin:0 0 6px;font-size:15px;font-weight:600;color:var(--text)}
+.balken .bb{position:relative;height:22px}
+.balken .bb i{position:absolute;left:0;top:0;bottom:0;border-radius:4px}
+.balken i.ges{background:color-mix(in srgb,var(--akzent) 22%,transparent);box-shadow:inset 0 0 0 1.5px var(--akzent)}
+.balken i.neu{background:var(--akzent)}
+.balken .bw{margin:6px 0 0;font-size:14px;color:var(--leise)}
+.balken .bw b{color:var(--text)}
+.balken .bl{display:flex;gap:18px;margin:4px 0 0;font-size:13px;color:var(--leise)}
+.balken .bl i{display:inline-block;width:14px;height:10px;border-radius:2px;margin-right:6px;vertical-align:0}
 .bild.trip{display:flex;justify-content:center;align-items:center;gap:4%;padding:5% 6% 0;aspect-ratio:21/11;background:radial-gradient(ellipse at 50% 120%,#3a2410 0%,var(--kachel2) 70%)}
 .bild.trip img{width:auto;height:100%;max-width:28%;object-fit:contain;border-radius:22px 22px 0 0;border:6px solid #2b2b2e;border-bottom:0;box-shadow:0 0 0 1px #3a3a3e}
 @media screen and (max-width:820px){.bild.trip{aspect-ratio:4/3;gap:3%;padding:6% 3% 0}.bild.trip img{border-radius:14px 14px 0 0;border-width:4px}}
@@ -307,7 +340,27 @@ function bild(id, L){
       + `<div class="sl l">${g.von[L].join('<br>')}</div>`
       + `<div class="sm"><i></i><div class="knopf"><svg viewBox="0 0 24 24"><path d="M12 5V2L8 6l4 4V7a5 5 0 1 1-5 5H5a7 7 0 1 0 7-7z"/></svg></div><i></i><b>${g.knopf[L]}</b></div>`
       + `<div class="sl r">${g.bei[L].join('<br>')}</div></div>`; }
-  if (q && q.liste) return `<div class="filterliste">${q.liste.map(g => `<div><p class="fk">${g.k[L]}</p><p class="fw">${g.w[L].join(' · ')}</p></div>`).join('')}</div>`;
+  if (q && q.liste) return `<div class="filterliste">${q.liste.map(g => `<div><p class="fk"${g.f ? ` style="color:${g.f}"` : ''}>${g.k[L]}</p><p class="fw">${g.w[L].join(' · ')}</p></div>`).join('')}</div>`;
+  /* liegende Säulen: je Werk die gelesene Menge (Fläche gedämpft, Kontur voll), davon neu (voll) */
+  if (q && q.balken){ const g = q.balken, max = Math.max(...g.zeilen.map(z => z.ges)), z3 = n => n.toLocaleString(L === 'de' ? 'de-DE' : 'en-US');
+    return `<div class="balken">${g.zeilen.map(z => `<div class="bz"><p class="bn">${z.n}</p><div class="bb"><i class="ges" style="width:${(100 * z.ges / max).toFixed(1)}%"></i><i class="neu" style="width:${(100 * z.neu / max).toFixed(1)}%"></i></div><p class="bw">${z3(z.ges)} · <b>${z3(z.neu)}</b></p></div>`).join('')}`
+      + `<p class="bl"><span><i class="ges"></i>${g.leg.ges[L]}</span><span><i class="neu"></i>${g.leg.neu[L]}</span></p></div>`; }
+  if (q && q.pre) return `<div class="bild konsole"><div class="leiste"><i></i><i></i><i></i><span>${q.pre.titel}</span></div><pre>${q.pre.zeilen[L].join('\n')}</pre></div>`;
+  /* halbe Matrix (Tufte: nur Daten-Tinte); divergente 7 Stufen von Jörg, grau = Zufall (0), Diagonale = 1 */
+  if (q && q.matrix){ const g = q.matrix, n = g.laute.length, c = 21, r0 = 34, F = ['#0b85fe','#529beb','#76accb','#afafaf','#c9a284','#e68a65','#ff6158'];
+    const stufe = x => x < -1 ? 0 : x < -0.5 ? 1 : x < -0.15 ? 2 : x <= 0.15 ? 3 : x <= 0.5 ? 4 : x < 0.95 ? 5 : 6;
+    const wert = (a, b) => { const k1 = a + '|' + b, k2 = b + '|' + a; return k1 in g.werte ? g.werte[k1] : k2 in g.werte ? g.werte[k2] : null; };
+    let z = '';
+    g.laute.forEach((a, i) => { z += `<text x="${r0 - 6}" y="${r0 + i * c + c / 2 + 5}" text-anchor="end">${a}</text><text x="${r0 + i * c + c / 2}" y="${r0 + n * c + 16}" text-anchor="middle">${a}</text>`;
+      for (let j = 0; j <= i; j++) { const w = wert(a, g.laute[j]); if (w == null) continue;
+        z += `<rect x="${r0 + j * c + 1}" y="${r0 + i * c + 1}" width="${c - 2}" height="${c - 2}" rx="2" fill="${F[stufe(w)]}"><title>${a} / ${g.laute[j]}: ${w.toFixed(2).replace('.', L === 'de' ? ',' : '.')}</title></rect>`; } });
+    const W = r0 + n * c + 4, H = r0 + n * c + 24;
+    return `<div class="matrix"><svg viewBox="0 ${r0 - 4} ${W} ${H - r0 + 4}" role="img" aria-label="${g.leg.rechts[L]}">${z}</svg>`
+      + `<p class="ml"><span>${g.leg.links[L]}</span>${F.map(f => `<i style="background:${f}"></i>`).join('')}<span>${g.leg.rechts[L]}</span><span class="leer"><i></i>${g.leg.leer[L]}</span></p></div>`; }
+  /* Soll und Ist (Aufbau): je Zeile Text, Balken wie im Programm, Reimbuchstabe, Erklärung */
+  if (q && q.sollbild){ const z = q.sollbild[L] || q.sollbild.en, F = { A: '#4a8fff', B: '#45c26a' };
+    const balken = m => [...m].map(c => `<i class="${c === '!' ? 'zv' : /[WS]/.test(c) ? 'um' : ''}" style="height:${/[sS]/.test(c) ? 13 : 4}px"></i>`).join('');
+    return `<div class="sollbild">${z.map(x => `<p class="st${x.platz ? ' platz' : ''}">${x.t}</p><span class="sb">${balken(x.m)}</span><b class="sr" style="color:${F[x.r]}${x.blass ? ';opacity:.45;font-style:italic' : ''}">${x.r}</b><span class="sn">${x.n}</span>`).join('')}</div>`; }
   if (q && q.konsole) return `<div class="bild konsole"><div class="leiste"><i></i><i></i><i></i><span>KlangTresor</span></div><pre>${konsole(L).map(z => z.replace(/^  (KlangTresor (läuft|is running|работает))$/, '  <b>$1</b>').replace(/http:\/\/[^ ]+/g, '<u>$&</u>')).join('\n')}</pre></div>`;
   if (q && q.geraete){ const g = q.geraete;
     return `<div class="bild geraete"><div class="lap"><div class="schirm"><img src="${g.laptop}" alt=""></div><div class="fuss"></div></div>`
